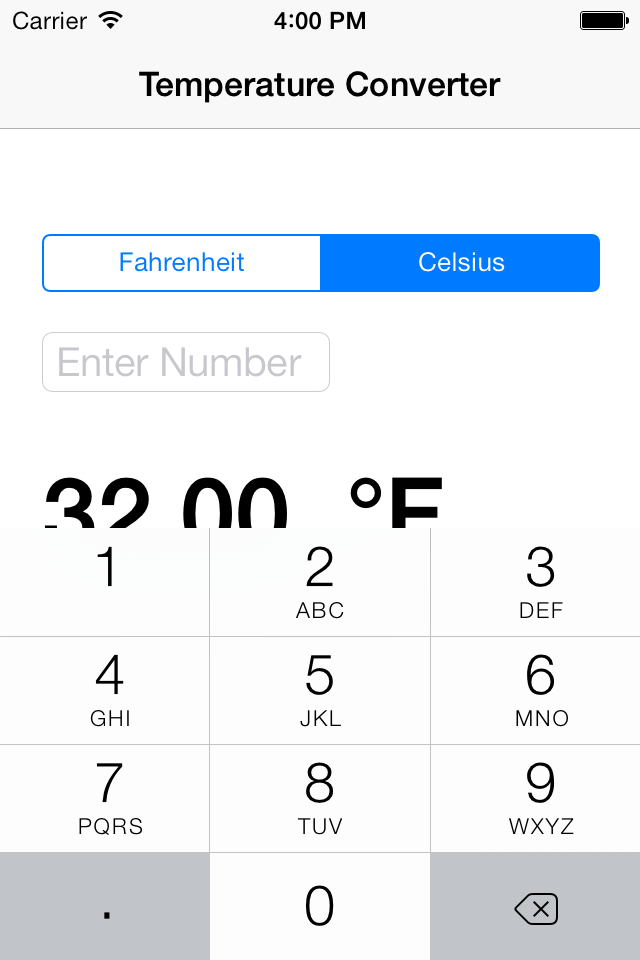
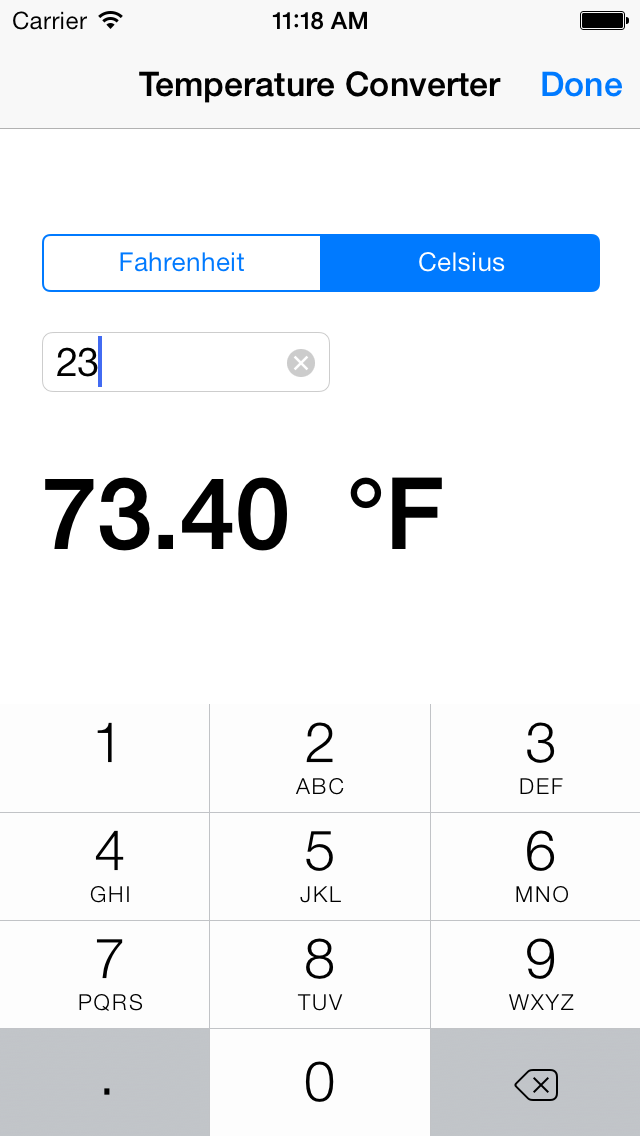
Added TextArea Delegate for Done text

diff --git a/temperatureConverter/temperatureConverter/tempConverterViewController.m b/temperatureConverter/temperatureConverter/tempConverterViewController.m
@@ -29,6 +29,9 @@
 {
     [super viewDidLoad];
     
+    //Set delegate to textfield to allow onDoneEditing text to show
+    self.tempEntryTextField.delegate = self;
+    
     //Automatically calculate data when UISegment is pressed
     [self.tempChooserSegmentedControl addTarget:self action:@selector(updateValues) forControlEvents:UIControlEventValueChanged];
     

diff --git a/README.md b/README.md
@@ -1,4 +1,4 @@
 Temperature Converter 
 This app allows users to enter temperature in either Fahrenheit and Celsius and convert to the alternate unit.
 
-![alt tag](https://raw.github.com/willysharp5/TemperatureConverter/master/1.png)
+![alt tag](https://raw.github.com/willysharp5/TemperatureConverter/master/2.png)
